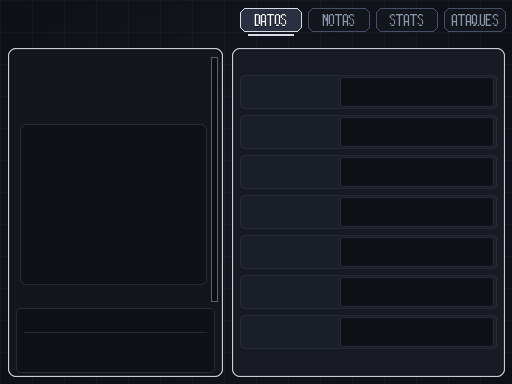
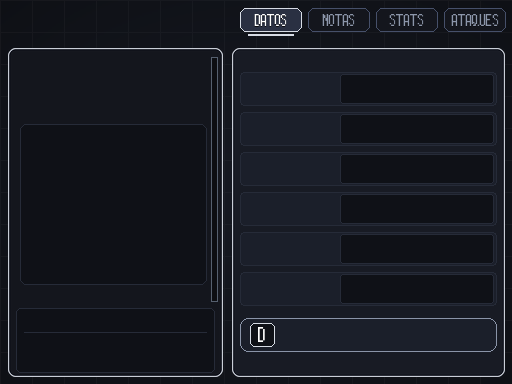
Datos: sin N° ID, filas reajustadas y acceso directo a la Pokedex con la tecla D

diff --git a/tools/scripts_dump/rem_ui.rb b/tools/scripts_dump/rem_ui.rb
@@ -542,7 +542,7 @@ end
 #===============================================================================
 module REM_UI
   SUM_STRIPE_X=212; SUM_STRIPE_Y0=58; SUM_STRIPE_Y1=300
-  SUM_ROW_Y0=75; SUM_ROW_P=40; SUM_ROW_H=34
+  SUM_ROW_Y0=72; SUM_ROW_P=40; SUM_ROW_H=34
   SUM_S3_HEAD=62; SUM_S3_Y0=92; SUM_S3_P=46; SUM_S3_H=40
   SUM_SLOT_Y0=69; SUM_SLOT_P=74; SUM_SLOT_H=64; SUM_LEARN_Y0=16; SUM_LEARN_P=70
   WHITE=Color.new(255,255,255)
@@ -701,24 +701,22 @@ class PokemonSummaryScene
     startexp=PBExperience.pbGetStartExperience(pokemon.level,growthrate)
     endexp=PBExperience.pbGetStartExperience(pokemon.level+1,growthrate)
     shadowpk=(pokemon.isShadow? rescue false)
-    labels=[_INTL("N° Dex"),_INTL("Especie"),_INTL("Tipo"),_INTL("EO"),_INTL("N° ID"),
+    labels=[_INTL("N° Dex"),_INTL("Especie"),_INTL("Tipo"),_INTL("EO"),
             shadowpk ? _INTL("Corazón") : _INTL("Experiencia"),
             shadowpk ? _INTL("Estado") : _INTL("Sig. nivel")]
     ry=lambda{|i| REM_UI::SUM_ROW_Y0+REM_UI::SUM_ROW_P*i+5}
-    for i in 0...7
+    for i in 0...6
       REM_UI.texts(overlay,[[labels[i],248,ry.call(i),0,REM_UI::LABEL,22,92]])
     end
     cx=416
     numcol=pokemon.isShiny? ? Color.new(255,110,100) : REM_UI::WHITE
-    idno=(pokemon.ot=="") ? "?????" : sprintf("%05d",pokemon.publicID)
     ownercol=REM_UI::WHITE
     ownercol=Color.new(110,170,255) if pokemon.ot!="" && pokemon.otgender==0
     ownercol=Color.new(255,120,160) if pokemon.ot!="" && pokemon.otgender==1
     REM_UI.texts(overlay,[
        [sprintf("%03d",pokemon.species),cx,ry.call(0),2,numcol,24,140],
        [PBSpecies.getName(pokemon.species),cx,ry.call(1),2,REM_UI::WHITE,24,140],
-       [(pokemon.ot=="") ? _INTL("PRESTADO") : pokemon.ot,cx,ry.call(3),2,ownercol,24,140],
-       [idno,cx,ry.call(4),2,REM_UI::WHITE,24,140]])
+       [(pokemon.ot=="") ? _INTL("PRESTADO") : pokemon.ot,cx,ry.call(3),2,ownercol,24,140]])
     ty=REM_UI::SUM_ROW_Y0+REM_UI::SUM_ROW_P*2+3
     if pokemon.type1==pokemon.type2
       overlay.blt(cx-32,ty,@typebitmap.bitmap,Rect.new(0,pokemon.type1*28,64,28))
@@ -728,8 +726,8 @@ class PokemonSummaryScene
     end
     if shadowpk
       shadowfract=pokemon.heartgauge*1.0/PokeBattle_Pokemon::HEARTGAUGESIZE
-      REM_UI.texts(overlay,[[sprintf("%d/5",5-pokemon.heartStage),cx,ry.call(5),2,REM_UI::WHITE,24,140]])
-      pbDrawImagePositions(overlay,[["Graphics/Pictures/summaryShadowBar",246,REM_UI::SUM_ROW_Y0+REM_UI::SUM_ROW_P*5+REM_UI::SUM_ROW_H-6,0,0,(shadowfract*248).floor,-1]])
+      REM_UI.texts(overlay,[[sprintf("%d/5",5-pokemon.heartStage),cx,ry.call(4),2,REM_UI::WHITE,24,140]])
+      pbDrawImagePositions(overlay,[["Graphics/Pictures/summaryShadowBar",246,REM_UI::SUM_ROW_Y0+REM_UI::SUM_ROW_P*4+REM_UI::SUM_ROW_H-6,0,0,(shadowfract*248).floor,-1]])
       heartmessage=[_INTL("¡La puerta de su corazón está abierta! ¡Hacer purificación definitiva!"),
                     _INTL("La puerta de su corazón está casi abierta del todo."),
                     _INTL("La puerta de su corazón está bastante abierta."),
@@ -737,19 +735,30 @@ class PokemonSummaryScene
                     _INTL("La puerta de su corazón está apenas abierta."),
                     _INTL("La puerta está fuertemente cerrada.")
                     ][pokemon.heartStage]
-      REM_UI.fit(overlay,heartmessage,140,22)
-      REM_UI.texts(overlay,[[heartmessage,cx,ry.call(6),2,REM_UI::WHITE,22,140]])
+      REM_UI.texts(overlay,[[heartmessage,cx,ry.call(5),2,REM_UI::WHITE,22,140]])
     else
-      REM_UI.texts(overlay,[[sprintf("%d",pokemon.exp),cx,ry.call(5),2,REM_UI::WHITE,24,140],
-         [sprintf("%d",endexp-pokemon.exp),cx,ry.call(6),2,REM_UI::WHITE,24,140]])
+      REM_UI.texts(overlay,[[sprintf("%d",pokemon.exp),cx,ry.call(4),2,REM_UI::WHITE,24,140],
+         [sprintf("%d",endexp-pokemon.exp),cx,ry.call(5),2,REM_UI::WHITE,24,140]])
       if pokemon.level<PBExperience::MAXLEVEL
         # barra de EXP fina en el borde inferior de la fila "Experiencia"
-        by=REM_UI::SUM_ROW_Y0+REM_UI::SUM_ROW_P*5+REM_UI::SUM_ROW_H-5
+        by=REM_UI::SUM_ROW_Y0+REM_UI::SUM_ROW_P*4+REM_UI::SUM_ROW_H-5
         overlay.fill_rect(246,by,244,3,Color.new(30,34,44))
         w=(pokemon.exp-startexp)*244/(endexp-startexp)
         overlay.fill_rect(246,by,w,3,Color.new(72,144,248))
       end
     end
+    pbSetNarrowFont(overlay); overlay.font.size=26
+    pbDrawTextPositions(overlay,[[_INTL("Ver en Pokédex"),284,(335-26*0.435).round,0,REM_UI::WHITE,REM_UI::INK]])
+  end
+
+  # Abre la ficha de la Pokédex de la especie y vuelve a Datos sin reiniciar la pantalla.
+  def remOpenDex(species)
+    pbPlayDecisionSE()
+    pbFadeOutIn(99999){
+       scene=PokemonPokedexScene.new
+       screen=PokemonPokedex.new(scene)
+       screen.pbDexEntry(species)
+    }
   end
 
   def drawPageThree(pokemon)

diff --git a/tools/ui/gen_summary_noir.py b/tools/ui/gen_summary_noir.py
@@ -16,7 +16,8 @@ PANEL_BOX = (232, 48, 504, 376)     # panel de datos derecho
 STRIPE = (212, 58, 300, 5)          # x, y0, y1, ancho (franja de tipo en la tarjeta)
 TABS = [("DATOS"), ("NOTAS"), ("STATS"), ("ATAQUES")]
 TAB_X0, TAB_W, TAB_GAP, TAB_Y, TAB_H = 240, 62, 6, 8, 24
-ROW_Y0, ROW_P, ROW_H, ROW_LABEL_W = 75, 40, 34, 100          # página 1
+ROW_Y0, ROW_P, ROW_H, ROW_LABEL_W = 72, 40, 34, 100
+DEX_BTN = (240, 318, 496, 351)          # acceso directo a la Pokédex (página 1)          # página 1
 S3_HEAD_Y, S3_Y0, S3_P, S3_H = 62, 92, 46, 40                 # página 3
 NOTES_BOX, ABIL_BOX = (240, 56, 496, 208), (240, 216, 496, 368)
 SLOT_X0, SLOT_X1, SLOT_Y0, SLOT_P, SLOT_H = 240, 495, 69, 74, 64   # página 4 (una línea por hueco)
@@ -88,7 +89,14 @@ def page_base(active, title_tabs=True):
 
 def page1():
     im = page_base(0); showcase(im)
-    for i in range(7): row_box(im, 240, ROW_Y0 + ROW_P * i, 496, ROW_H, ROW_LABEL_W)
+    for i in range(6): row_box(im, 240, ROW_Y0 + ROW_P * i, 496, ROW_H, ROW_LABEL_W)
+    x0, y0, x1, y1 = DEX_BTN
+    box(im, DEX_BTN, hexc("1B1F2A"), hexc("8A94A8"), 8)
+    box(im, (x0 + 1, y0 + 1, x1 - 1, y1 - 1), hexc("1B1F2A"), None, 7)
+    box(im, (x0 + 10, y0 + 5, x0 + 34, y1 - 5), WELL, SILVER, 5)          # tecla D
+    d = ImageDraw.Draw(im); f = font(22); hb = d.textbbox((0, 0), "D", font=f); tb = d.textbbox((0, 0), "D", font=f)
+    tx = x0 + 22 - (tb[2] - tb[0]) / 2 - tb[0]; ty = (y0 + y1) / 2 - (hb[3] - hb[1]) / 2 - hb[1]
+    d.text((int(tx), int(ty)), "D", font=f, fill=(255, 255, 255, 255))
     save(im, "summary1")
 
 def page2():

diff --git a/tools/scripts_dump/src/134_PScreen_Summary.rb b/tools/scripts_dump/src/134_PScreen_Summary.rb
@@ -423,6 +423,9 @@ class PokemonSummaryScene
           drawPageFour(@pokemon)
         end
       end
+      if Input.trigger?(Input::Z) && @page==0 && !@pokemon.isEgg?
+        remOpenDex(@pokemon.species)   # REM_UI: ficha de la Pokédex
+      end
       if Input.trigger?(Input::UP) && @partyindex>0
         oldindex=@partyindex
         pbGoToPrevious
